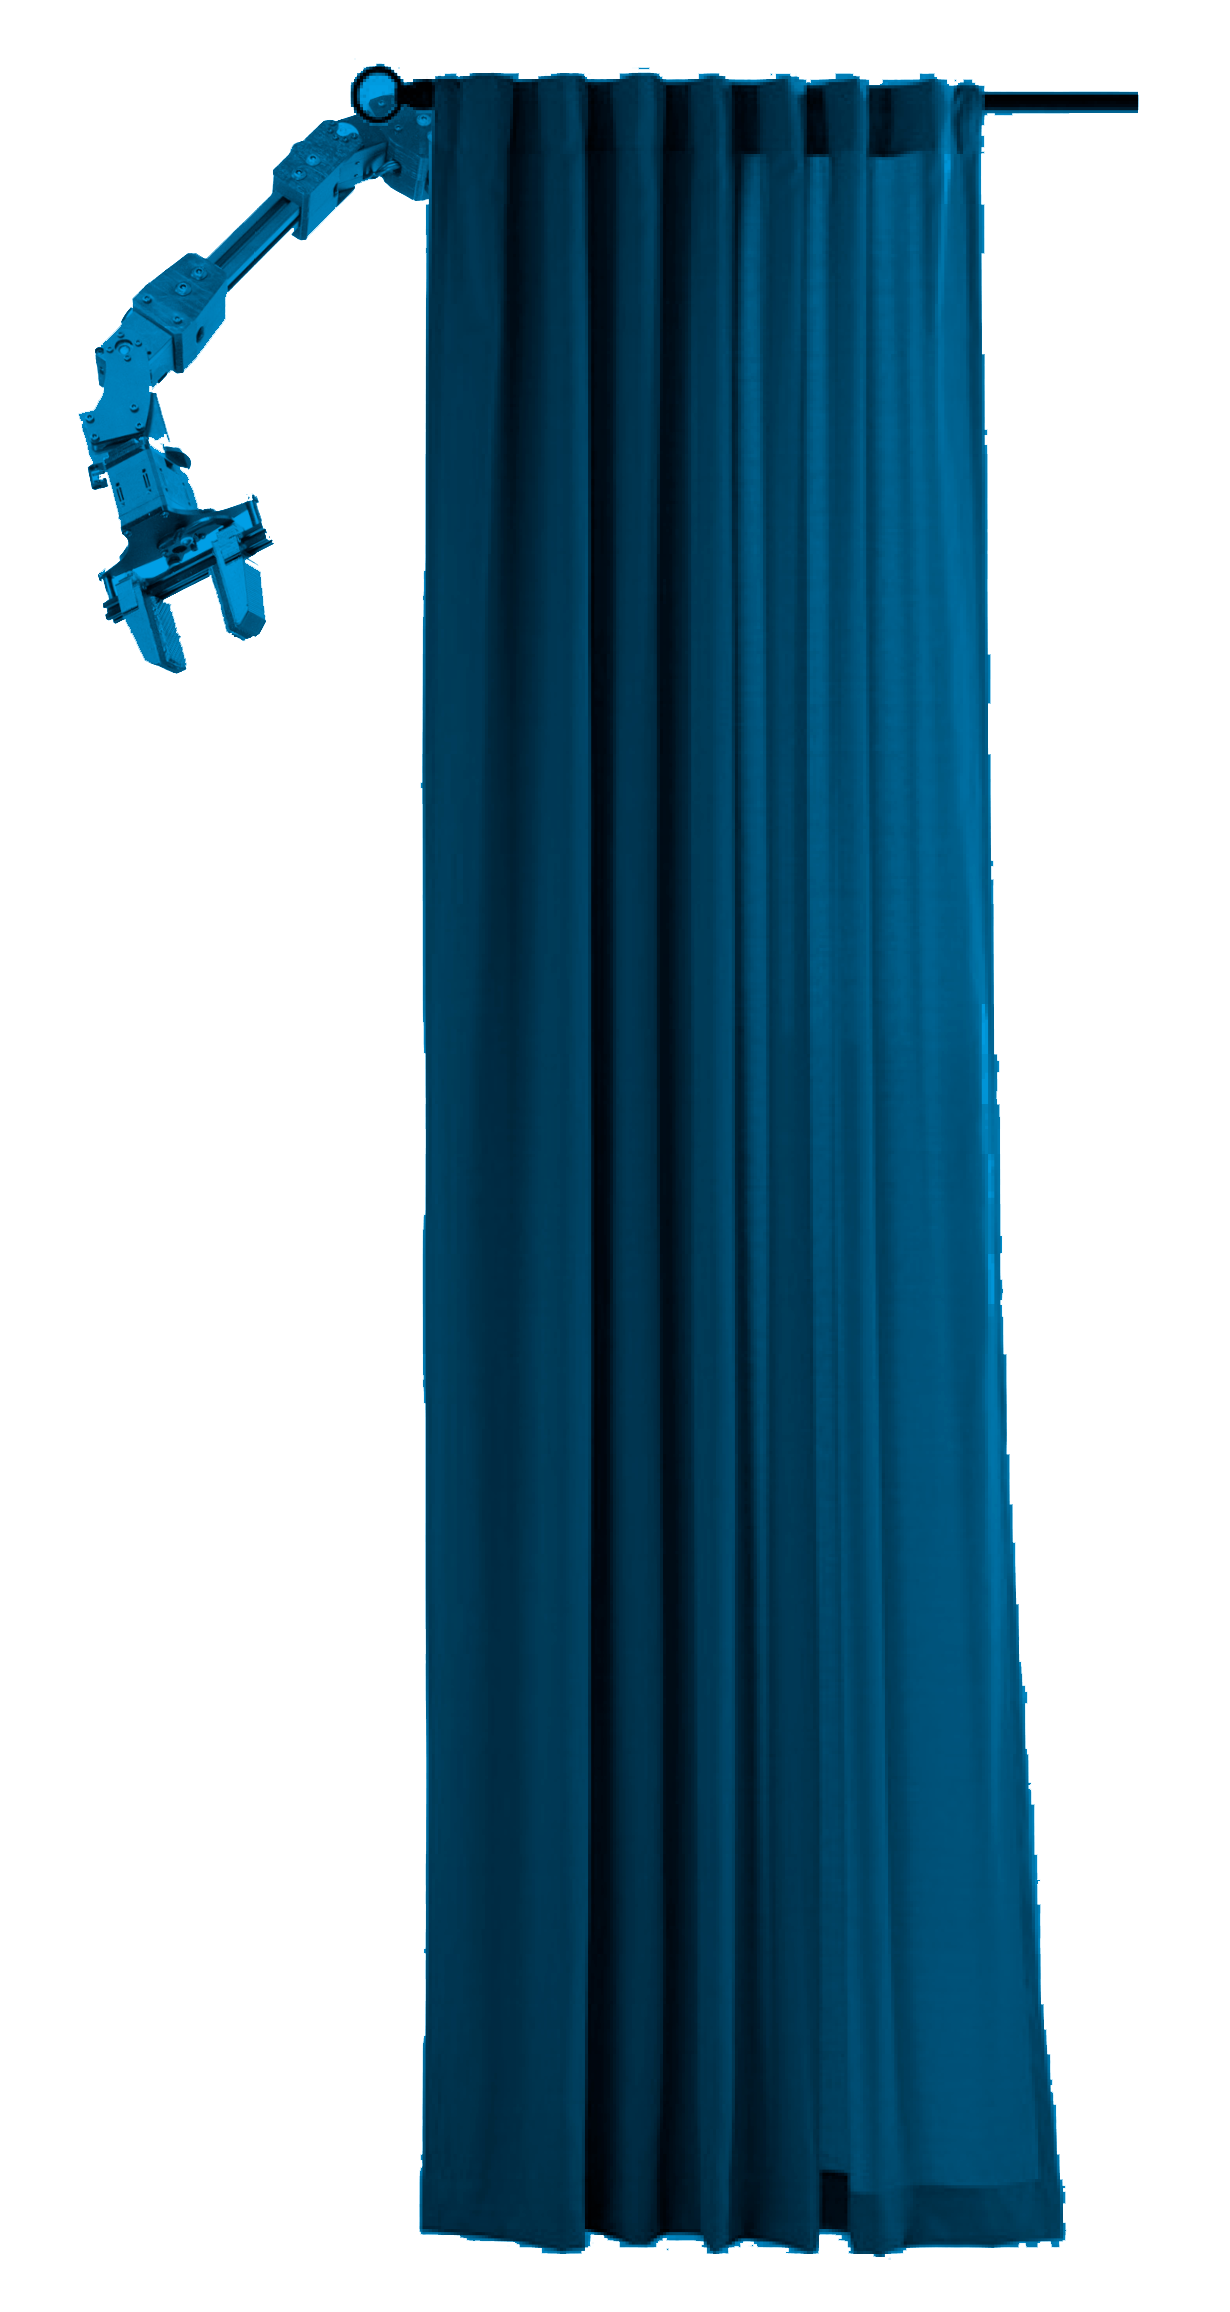
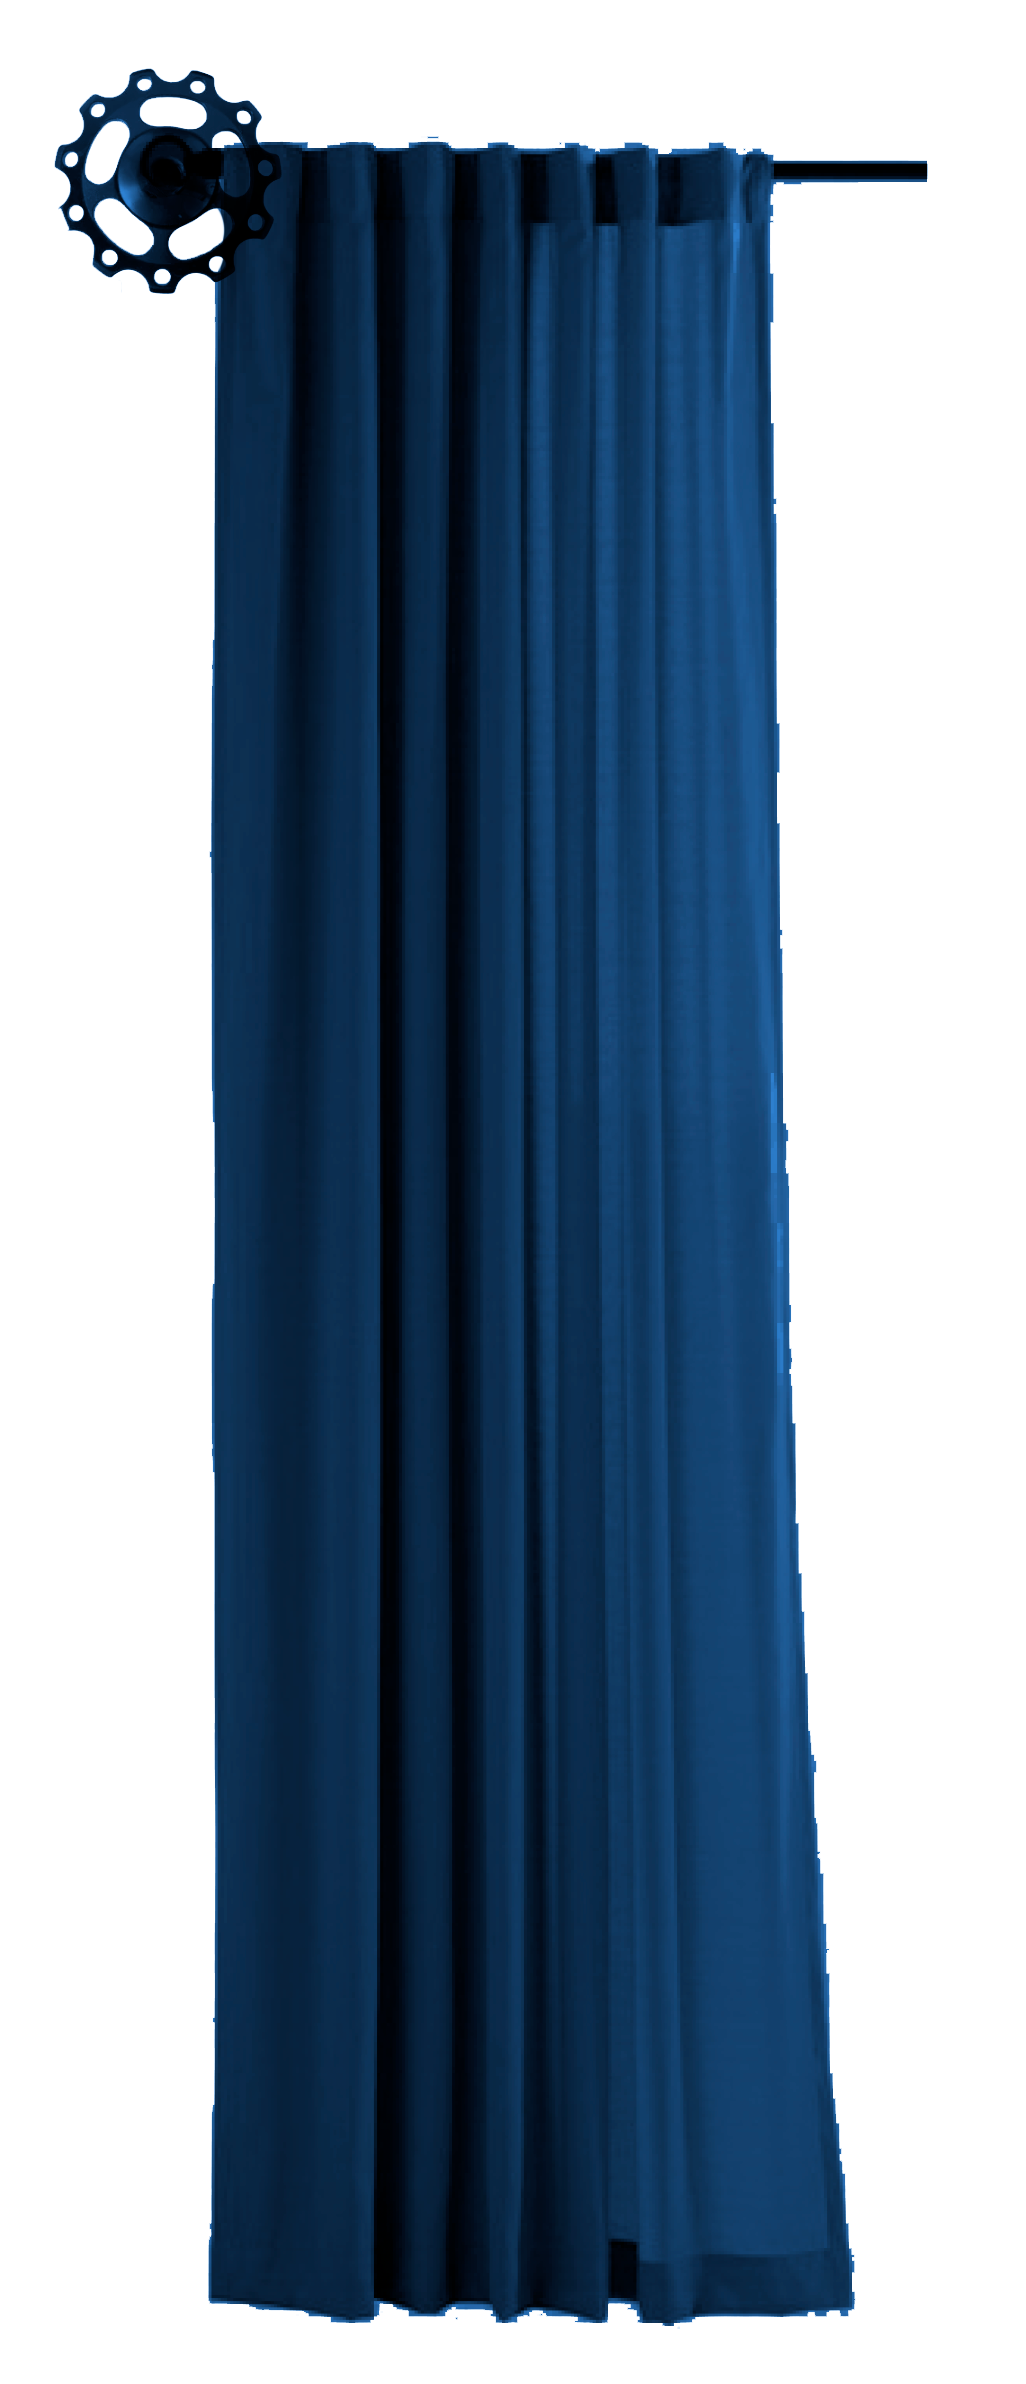
muahahahha

diff --git a/main.css b/main.css
@@ -360,7 +360,7 @@ img.sala:nth-child(6) { /*janela*/
 #cortina_esq { /*cortina da esquerda*/
     height: 550px;
     width: auto;
-    left: 33%;
+    left: 37%;
     z-index: -7;
 }
 
@@ -376,6 +376,7 @@ img.sala:nth-child(6) { /*janela*/
     width: auto;
     left: 48%;
     z-index: -7;
+    top:-3%;
 }
 
 .cortina_dir_azul {
